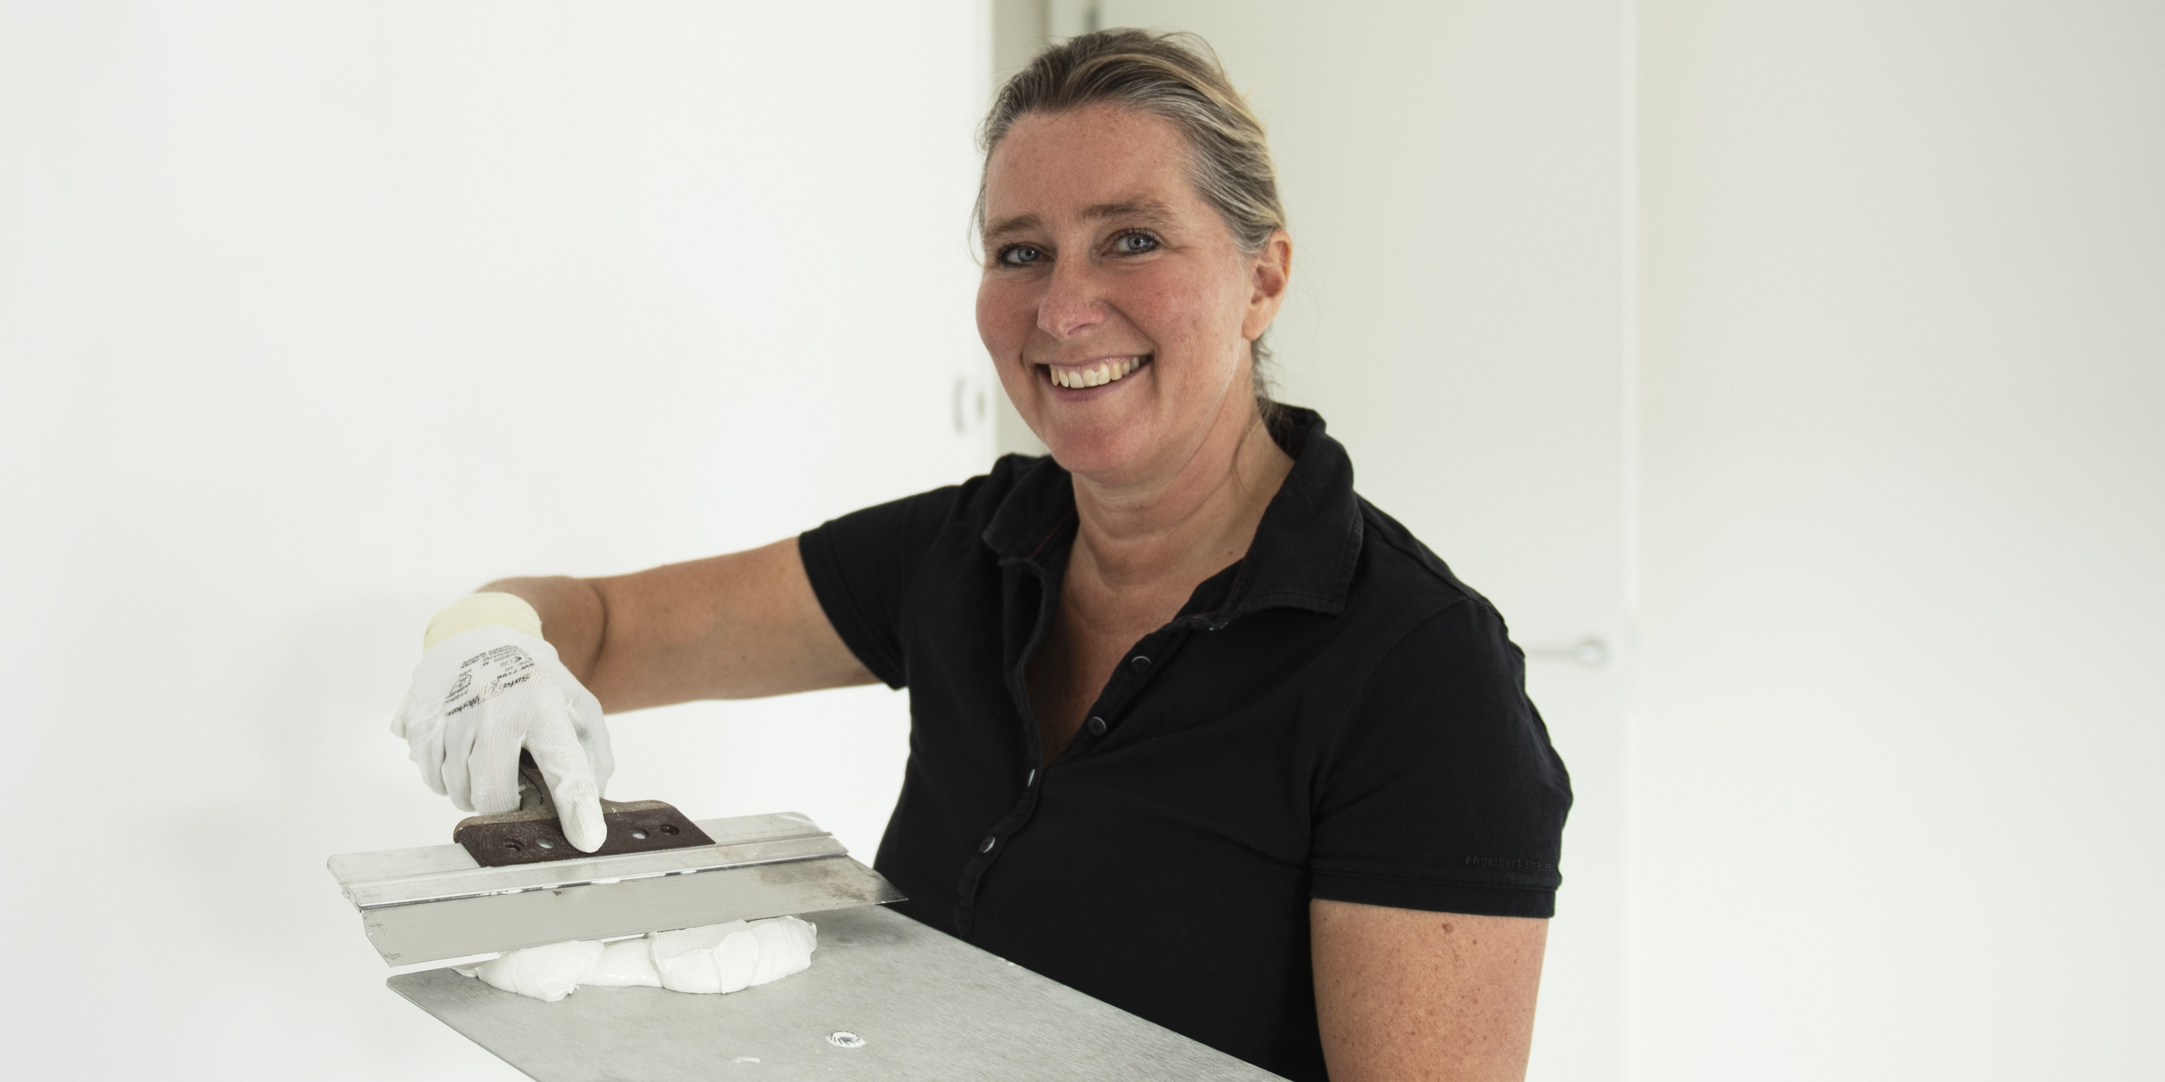
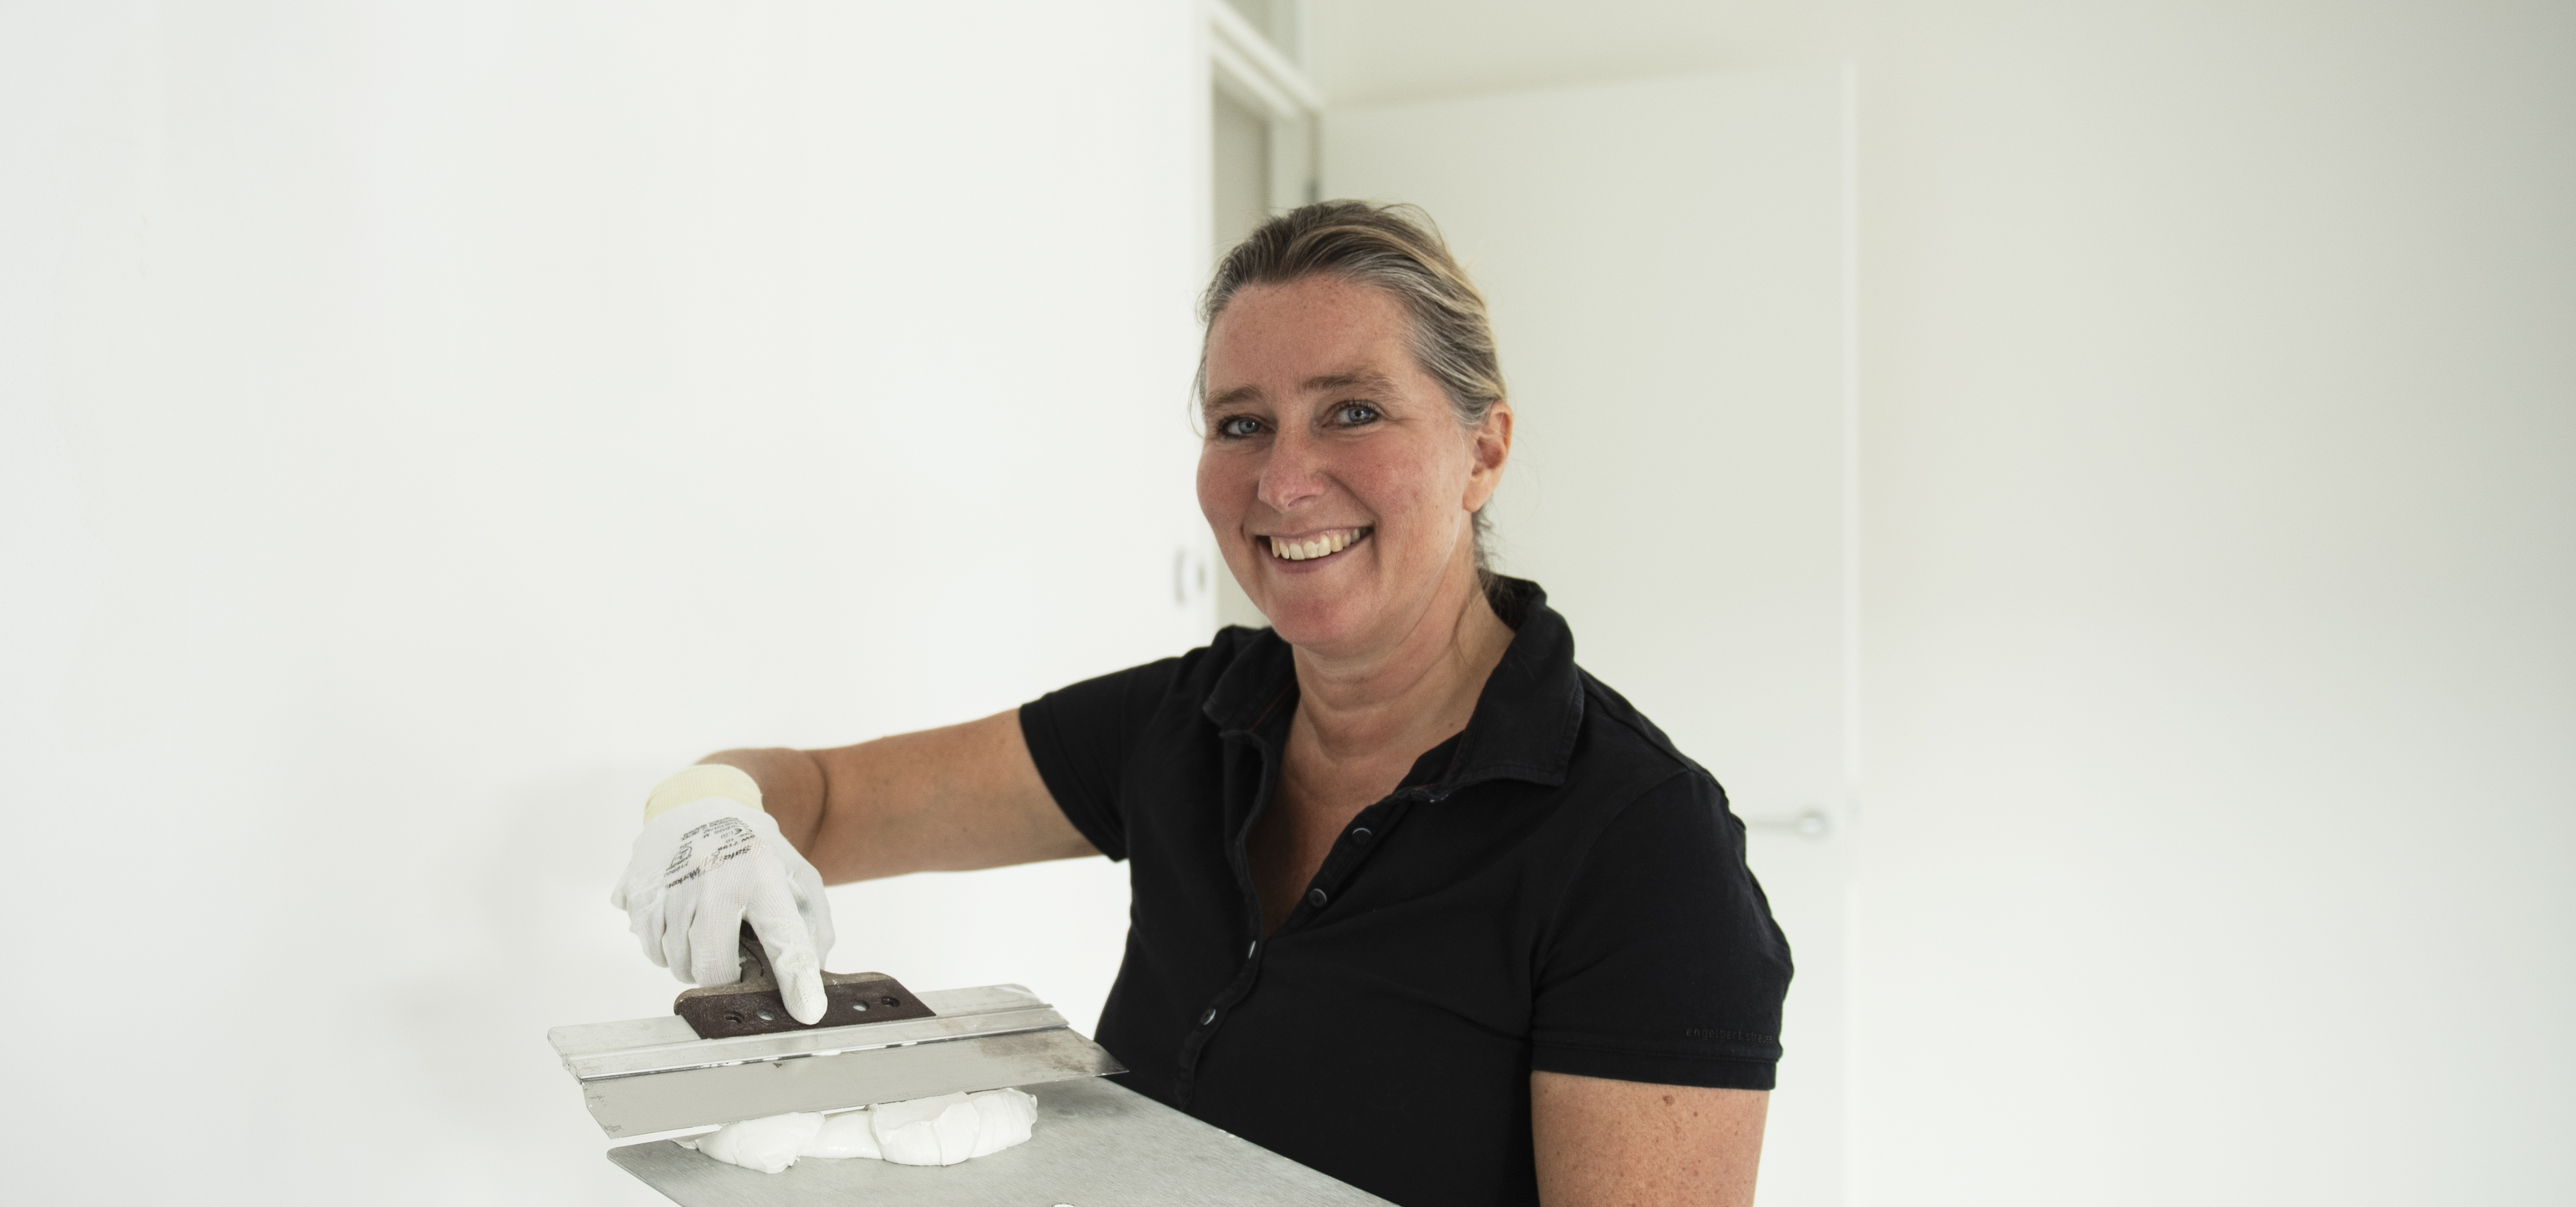
bg 04

Changed region(s): [[0.1562, 0.0, 0.75, 1.0], [0.9688, 0.0, 1.0, 0.062]]

diff --git a/pages/diensten/index.vue b/pages/diensten/index.vue
@@ -1,6 +1,6 @@
 <template>
   <div>
-    <page-title title="Diensten" backgroundImage="/img/bg/bg-12.jpg" />
+    <page-title title="Diensten" backgroundImage="/img/bg/bg-04.jpg" />
     <section>
       <div class="container">
         <div class="section-heading">
